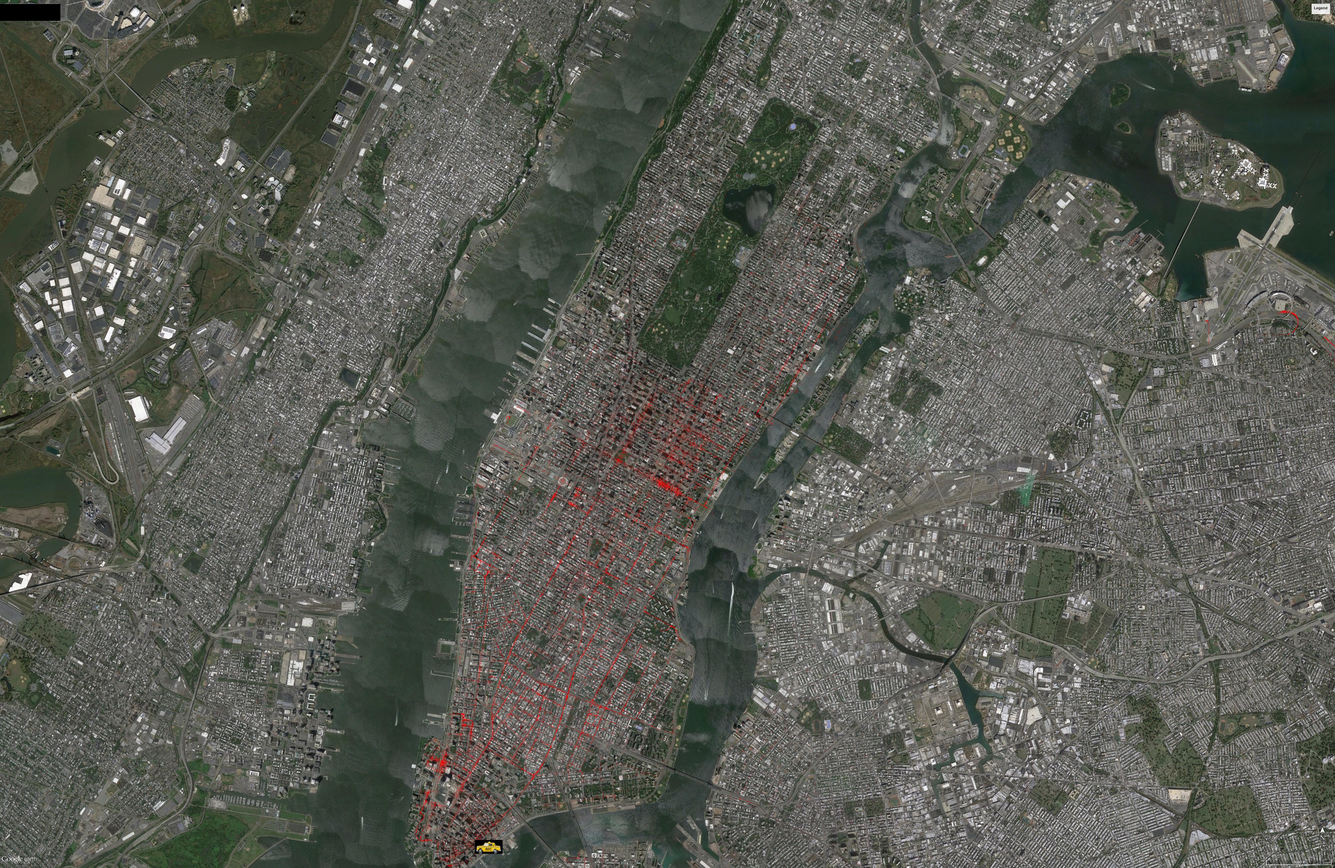
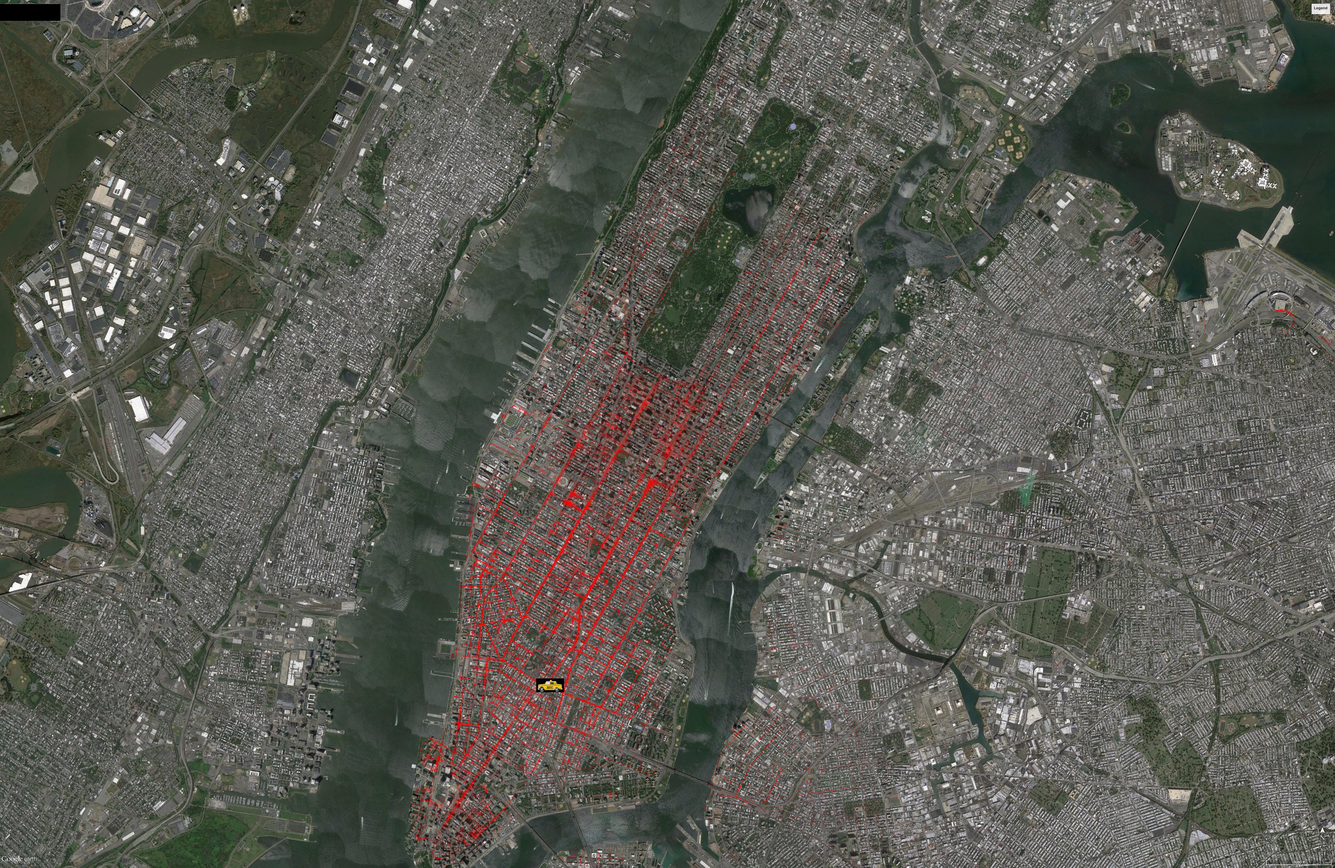
Recalibrate data plots

diff --git a/src/finra/Main.java b/src/finra/Main.java
@@ -10,15 +10,14 @@ public class Main {
 		GUI.makeWindow(); 
 		
 		while(!finishedChoosingCoords){
-			System.out.println(".");
+			System.out.print(".");
 		}
 		
 		int[] xyCoords = GUI.getCoords();
+		System.out.println("\ngot coordinates");
 		ArrayList<ArrayList<Integer>> startPoints = EndpointFinder.startpoints(xyCoords[1], xyCoords[0]);
-		
-		System.out.println(startPoints.get(0).toString());
-		System.out.println(startPoints.get(1).toString());
-		
+		System.out.println("calculated trip endpoints");
 		photoOutput.createPicture(startPoints);
+		System.out.println("saved map to file"); 
 	}
 }

diff --git a/src/finra/photoOutput.java b/src/finra/photoOutput.java
@@ -13,7 +13,9 @@ public class photoOutput {
 		BufferedImage b = ImageIO.read(new File("images/NYC_portrait.jpg"));
 		for (int i = 0; i < pixels.get(0).size(); i++){
 			try {
-				b.setRGB(pixels.get(0).get(i), pixels.get(1).get(i), Color.red.getRGB());
+				int x = pixels.get(0).get(i);
+				int y = pixels.get(1).get(i);
+				b.setRGB(x - 15, y - 5, Color.red.getRGB());
 			} catch (Exception e) {
 				// ignore the edge case
 			}

diff --git a/src/finra/Zoom.java b/src/finra/Zoom.java
@@ -51,7 +51,7 @@ class ImagePanel extends JPanel
 						coordWriter.newLine();
 						coordWriter.write(Integer.toString(y));
 						coordWriter.close();
-						System.out.println(x + ", " + y);
+						System.out.println("(" + x + ", " + y + ")");
 					} else {
 						// do nothing
 					}
